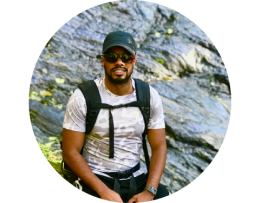
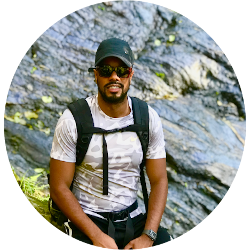
new features

diff --git a/src/components/Footer/Footer.js b/src/components/Footer/Footer.js
@@ -1,11 +1,15 @@
 import React from 'react';
 
+
 const Footer = () => {
     return (
       <footer className="container-footer">
         <div className="container-icon-text">
           <div>
-            <img src="/images/icon/icon_heart.png" alt="icon heart" />
+            <img
+              src="https://img.icons8.com/plumpy/24/000000/code.png"
+              alt="icon codigo font"
+            />
           </div>
           <div className="container-text__footer">
             <p>por Jeferson Veiga</p>
@@ -13,13 +17,30 @@ const Footer = () => {
         </div>
         <div>
           <div className="container-icons">
-            <img src="/images/icon/GithubLogo_mobile.png" alt="github" />
-            <img src="/images/icon/LinkedinLogo_mobile.png" alt="linkedin" />
+            <a
+              target="_blank"
+              rel="noreferrer"
+              href="https://github.com/jveiiga"
+            >
+              <img
+                src="https://img.icons8.com/ios-filled/30/000000/github.png"
+                alt="icon git hub"
+              />
+            </a>
             <img
-              src="/images/icon/EnvelopeSimple_mobile.png"
-              alt="envelope"
-              className="icon-envelope"
+              src="https://img.icons8.com/ios-filled/50/000000/linkedin.png"
+              alt="icon linkedin"
             />
+            <a
+              target="_blank"
+              rel="noreferrer"
+              href="mailto:jeferson.veiiga@icloud.com"
+            >
+              <img
+                src="https://img.icons8.com/external-kiranshastry-solid-kiranshastry/35/000000/external-email-interface-kiranshastry-solid-kiranshastry.png"
+                alt="icon email"
+              />
+            </a>
           </div>
         </div>
       </footer>

diff --git a/src/pages/Main/Main.js b/src/pages/Main/Main.js
@@ -6,12 +6,12 @@ const PagesMain = () => {
     return (
         <main className="container-main">
         <img
-          src="/images/my-image/my_image_tablet.png"
+          src="/images/my-image/my_image_mobile.png"
           alt="it's me"
           className="container-my-image__mobile"
         />
         <img
-          src="/images/my-image/my_image_tablet.png"
+          src="/images/my-image/my_image.png"
           alt="it's me"
           className="container-my-image__tablet"
         />

diff --git a/src/App.css b/src/App.css
@@ -34,6 +34,7 @@ code {
   position: fixed;
   width: 100%;
   height: 56px;
+  z-index: 420;
 }
 
 h1 {
@@ -183,7 +184,7 @@ li a:hover,
 .container-my-image__mobile {
   object-fit: cover;
   height: 250px;
-  width: 265px;
+  width: 250px;
 }
 
 .container-my-image__tablet {
@@ -227,6 +228,7 @@ li a:hover,
   display: flex;
   justify-content: space-between;
   width: 139px;
+  height: 30px;
   cursor: pointer;
 }
 
